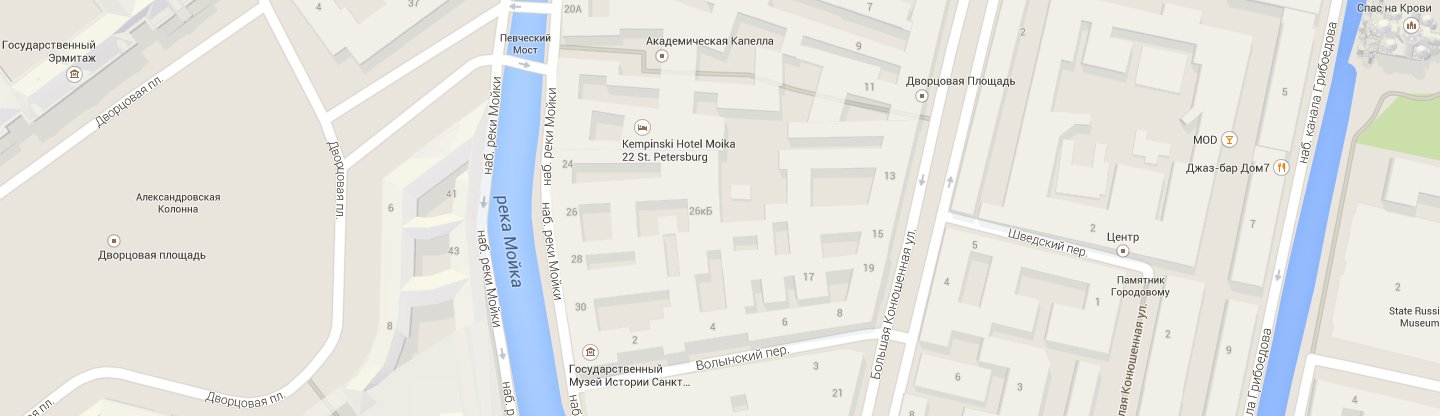
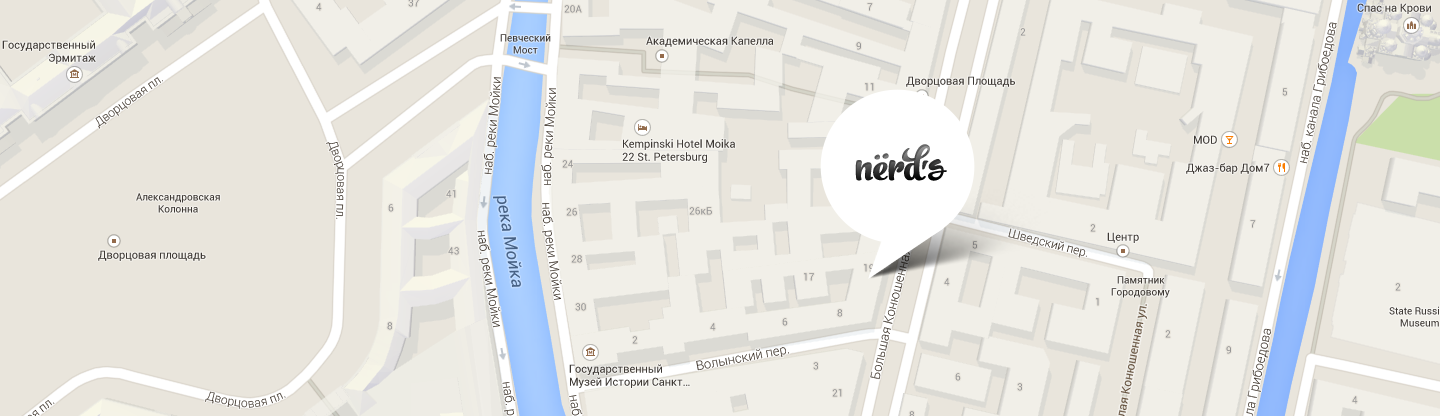
Add static map

Changed region(s): [[0.5625, 0.2188, 0.6875, 0.6562]]

diff --git a/shop.html b/shop.html
@@ -186,7 +186,8 @@
 <footer class="footer">
     <div class="map-wrapper">
         <iframe src="https://yandex.ru/map-widget/v1/?um=constructor%3A0da719b83099ced85a7360a81502c2350b32536cdaef0779f9d6f8efe23a999d&amp;source=constructor"
-                width="100%" height="416" frameborder="0"></iframe>
+                width="1440" height="416"></iframe>
+        <img src="img/map.png" width="1440" height="416" alt="Расположение дизайн-студии на карте">
         <section class="map-container">
             <h2 class="visually-hidden">Контактная информация</h2>
             <div class="map-address">
@@ -212,5 +213,6 @@
         </div>
     </div>
 </footer>
+ <script src="js/script.js"></script>
 </body>
 </html>

diff --git a/index.html b/index.html
@@ -138,7 +138,8 @@
 <footer class="footer">
     <div class="map-wrapper">
         <iframe src="https://yandex.ru/map-widget/v1/?um=constructor%3A0da719b83099ced85a7360a81502c2350b32536cdaef0779f9d6f8efe23a999d&amp;source=constructor"
-                width="100%" height="416" frameborder="0"></iframe>
+                width="1440" height="416"></iframe>
+        <img src="img/map.png" width="1440" height="416" alt="Расположение дизайн-студии на карте">
         <section class="map-container">
             <h2 class="visually-hidden">Контактная информация</h2>
             <div class="map-address">

diff --git a/css/style.css b/css/style.css
@@ -629,20 +629,32 @@ input[type="radio"].visually-hidden {
 }
 
 .map-wrapper {
+    position: relative;
     display: flex;
+    height: 416px;
     justify-content: center;
-}
-
-.map-container {
-    position: absolute;
-    z-index: 1;
+    background-color: #b5b5b5;
 }
 
 .map-wrapper img {
+    position: absolute;
+    z-index: 10;
     width: 100%;
     height: 416px;
     min-width: 1200px;
     margin: 0 auto;
+}
+
+.map-wrapper iframe {
+    z-index: 20;
+    width: 100%;
+    min-width: 1200px;
+    border: none;
+}
+
+.map-container {
+    position: absolute;
+    z-index: 30;
 }
 
 .map-address {

diff --git a/js/script.js b/js/script.js
@@ -2,12 +2,12 @@ var modal = document.querySelector(".modal");
 var open = document.querySelector(".send-us-popup-button");
 var close = document.querySelector(".modal-close");
 
-open.addEventListener("click", function(evt) {
+open.addEventListener("click", function (evt) {
     evt.preventDefault();
     modal.classList.add("modal-show");
 });
 
-close.addEventListener("click", function(evt) {
+close.addEventListener("click", function (evt) {
     evt.preventDefault();
     modal.classList.remove("modal-show");
 });
